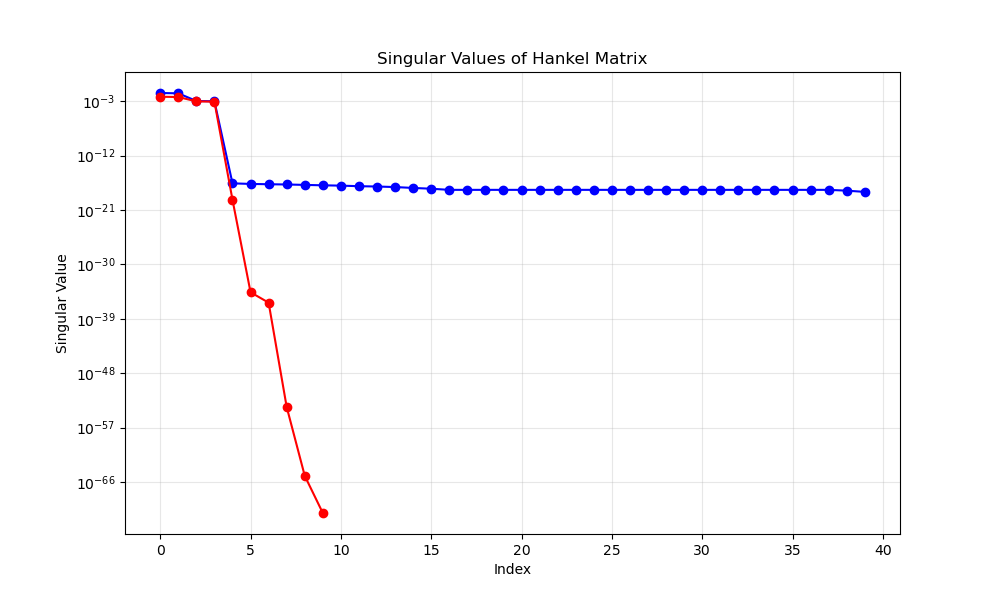
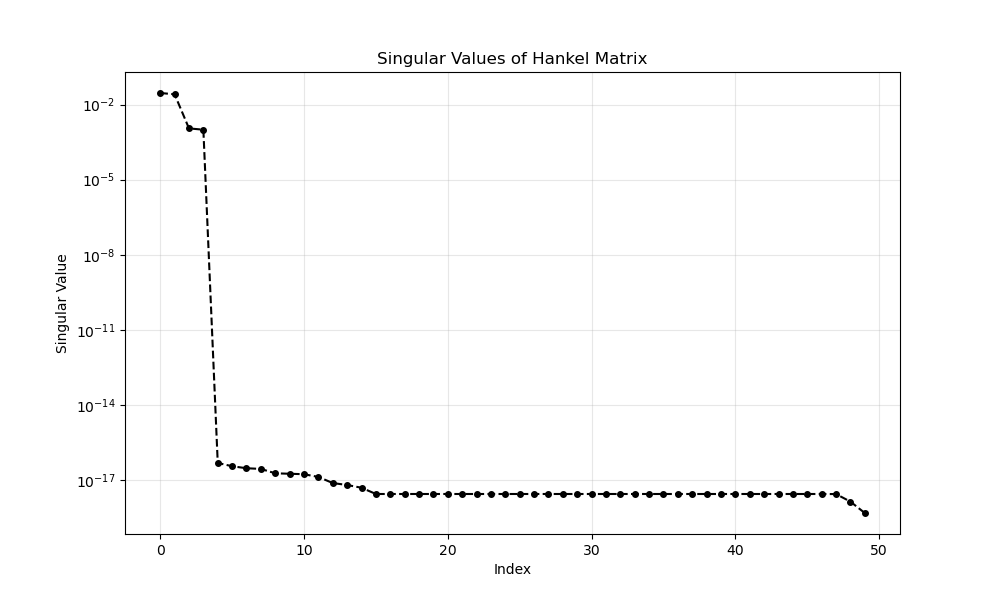
P4 DONE, P7 STARTED

diff --git a/Problem_4_2nd.py b/Problem_4_2nd.py
@@ -187,7 +187,7 @@ for i in range(2):
         axes[i, j].set_xlabel('Time [min]')
         axes[i, j].set_ylabel('Markov parameters')
 plt.savefig(f'figures/Problem4/Problem_4_Markow.png')
-plt.show()
+plt.close()
 
 S_11 = np.cumsum(H(0, 0, t_array))
 S_12 = np.cumsum(H(0, 1, t_array))
@@ -240,7 +240,7 @@ axes[0, 1].grid(alpha = 0.25)
 axes[1, 1].legend(loc='center right')
 axes[1, 1].grid(alpha = 0.25)
 plt.savefig(f'figures/Problem4/Problem_4_Stepresponse.png')
-plt.show()
+plt.close()
 
 def Hankel_Matrix(p_rows=10, q_cols=10):
     """
@@ -279,24 +279,21 @@ def Hankel_Matrix(p_rows=10, q_cols=10):
 
 # Compute and display the Hankel matrix
 print("Computing Hankel Matrix...")
-H_hankel = Hankel_Matrix(p_rows=20, q_cols=20)
-H_hankel_test = Hankel_Matrix(p_rows=5, q_cols=5)
+H_hankel = Hankel_Matrix(p_rows=25, q_cols=25)
 # print(H_hankel)
 
 # Compute SVD of Hankel matrix for system order estimation
 K, S, Lt = np.linalg.svd(H_hankel)
-K_test, S_test, Lt_test = np.linalg.svd(H_hankel_test)
 
 # Plot singular values
 plt.figure(figsize=(10, 6))
-plt.semilogy(S[:], 'bo-')
-plt.semilogy(S_test[:], 'ro-')
+plt.semilogy(S[:], linestyle='--', color='black', marker='o', markersize=4)
 plt.xlabel('Index')
 plt.ylabel('Singular Value')
 plt.title('Singular Values of Hankel Matrix')
 plt.grid(True, alpha=0.3)
 plt.savefig('figures/Problem4/Problem_4_Hankel_SingularValues.png')
-plt.show()
+plt.close()
 
 # Estimate system order based on singular values
 # Look for a significant drop in singular values
@@ -329,5 +326,10 @@ data = {
     "C": C,
     "D": D
 }
+
+print(data["A"].shape)
+print(data["B"].shape)
+print(data["C"].shape)
+print(data["D"].shape)
 
 np.savez("Results/Problem4/Problem_4_estimates.npz", **data)
